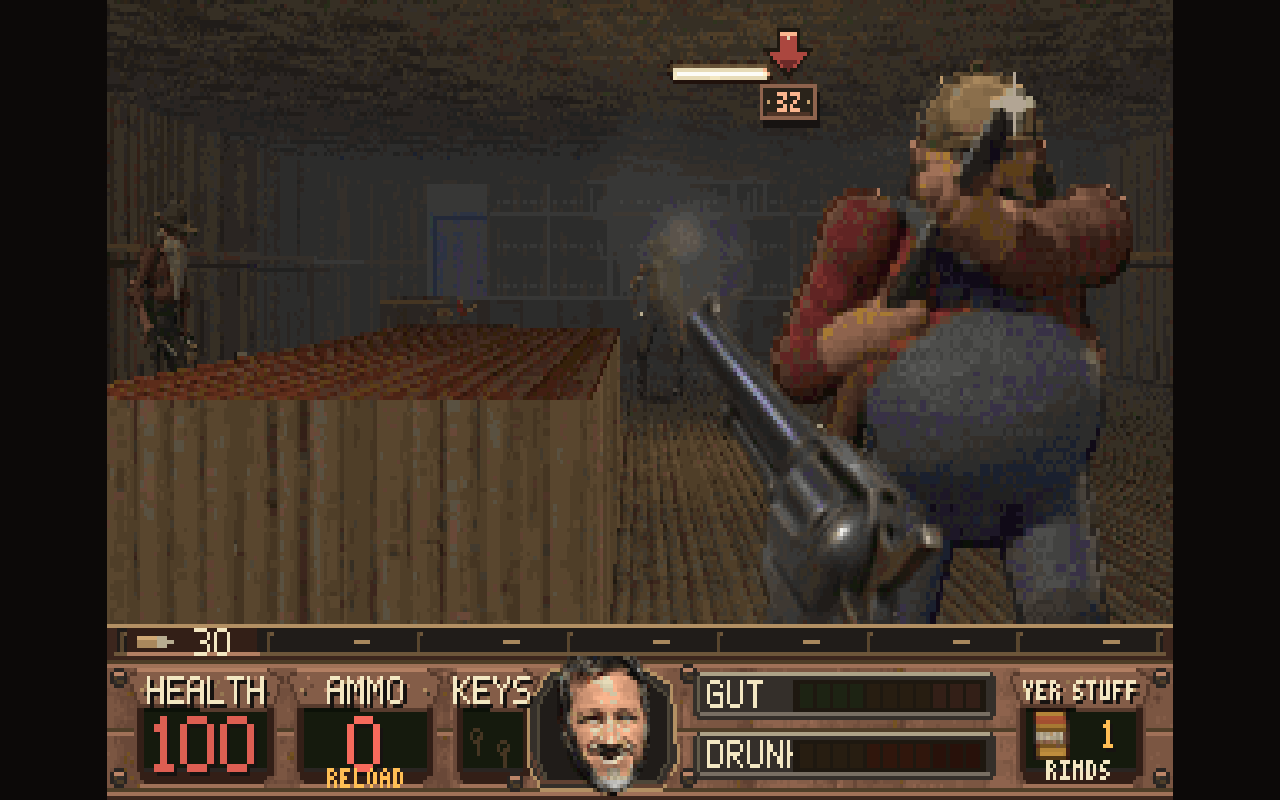
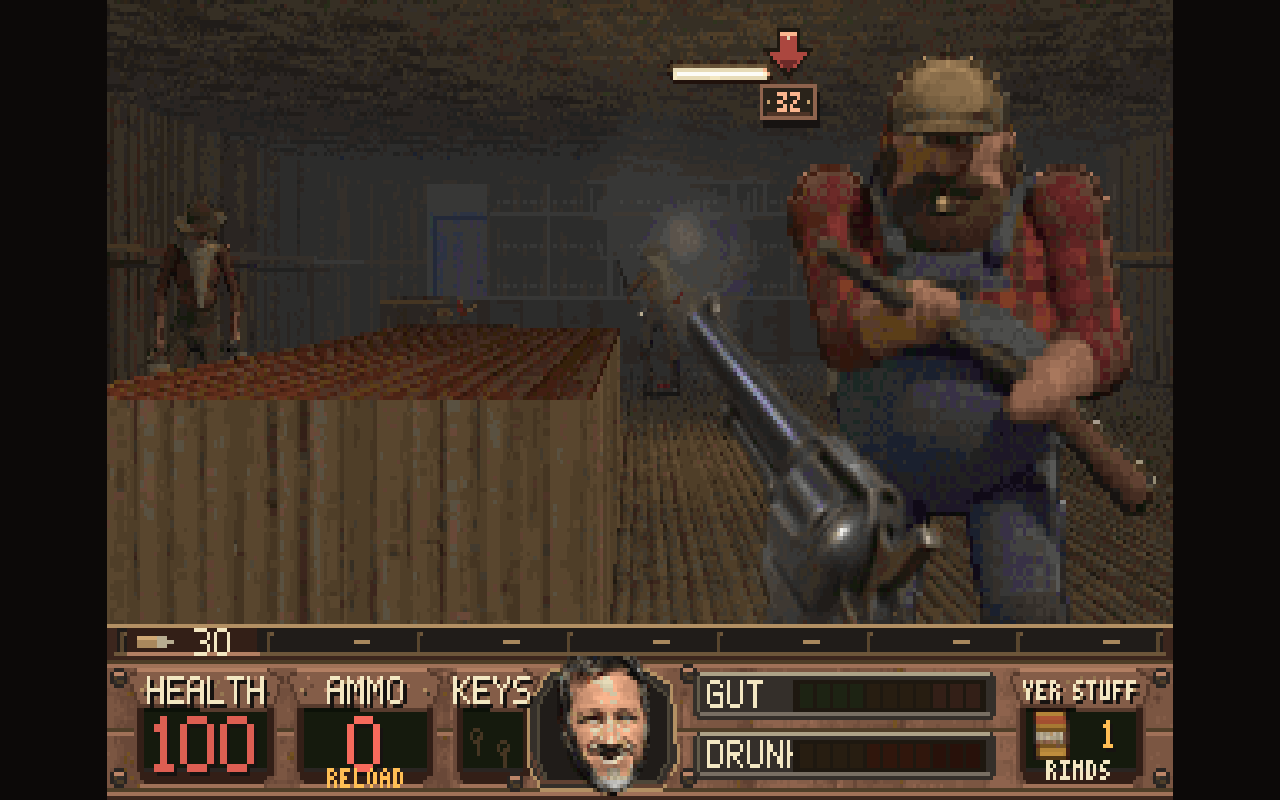
Enemy balance pass, the duel tool, site text for the smarter county
- tools/enemy_duels.gd: the bot fights one hand of each hostile kind alone,
  at every difficulty; 'danger' measures what each kind deals to a player
  who stands and takes it for 12 s (time to kill stays tools/ttk.gd).
- From it: skeeter bites 10 -> 8 and crawler bites 11 -> 9 (both near twice
  the median on NORMAL); the rest sit in a sensible band.
- Site: what the county's hands do now.
- The Hickston firing view's reference with the new art, the dropped pistol
  and the locals at the bar.

Changed region(s): [[0.5938, 0.0625, 0.9062, 0.7812], [0.0938, 0.25, 0.1875, 0.4688]]

diff --git a/site/index.html b/site/index.html
@@ -85,6 +85,18 @@
   </aside>
   <aside class="note note-tilt-right">
     <h3>Fresh off the truck</h3>
+    <p>The county's hands got smarter and louder. They holler when they spot you, cuss each
+      other out when they get winged, swing wide round the barn while a buddy keeps you pinned,
+      lob a bottle at you when you hide too long, and fall back when they are losing. Walk up
+      quiet and you will catch them drinking on the porch, playing cards or poking at a truck;
+      hit one from behind before he knows you are there and he is not getting up quick. Where
+      a round lands matters now: a head shot pops the hat clean off, a leg shot leaves him
+      limping, an arm shot makes him drop his gun and go scrabbling for it, and a load of
+      buckshot at arm's length will throw a man through a window. They look the part too,
+      bloodied and limping once they are hurt, and a hard core turns up more the harder you
+      play: Big Billy and his double barrel, a weaving drunk Coot who throws his jug, deputies
+      behind a pickup door, and a tough guy waiting in every chapter. Chickens scatter when
+      the shooting starts, and a hurt hog will come for you.</p>
     <p>Every boss fight is rebuilt. Each boss has a proper arena now: a floodlit rodeo
       ring round a crashed saucer, the Hogs' football field, Rudy's big top, the saw floor,
       the copper still house, the bayou lagoon, the derby bowl, Maw's throne room. They make an
